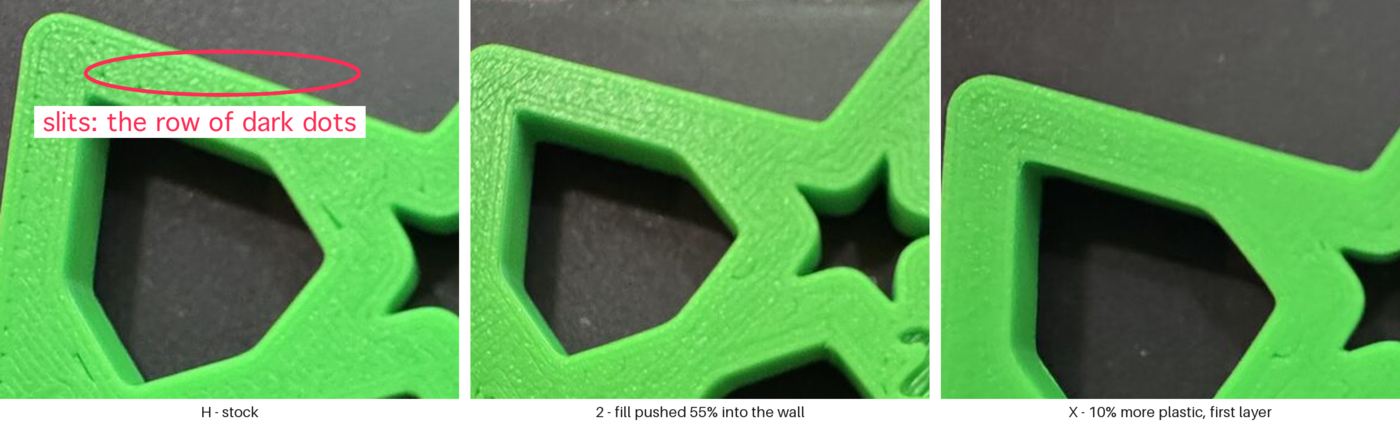
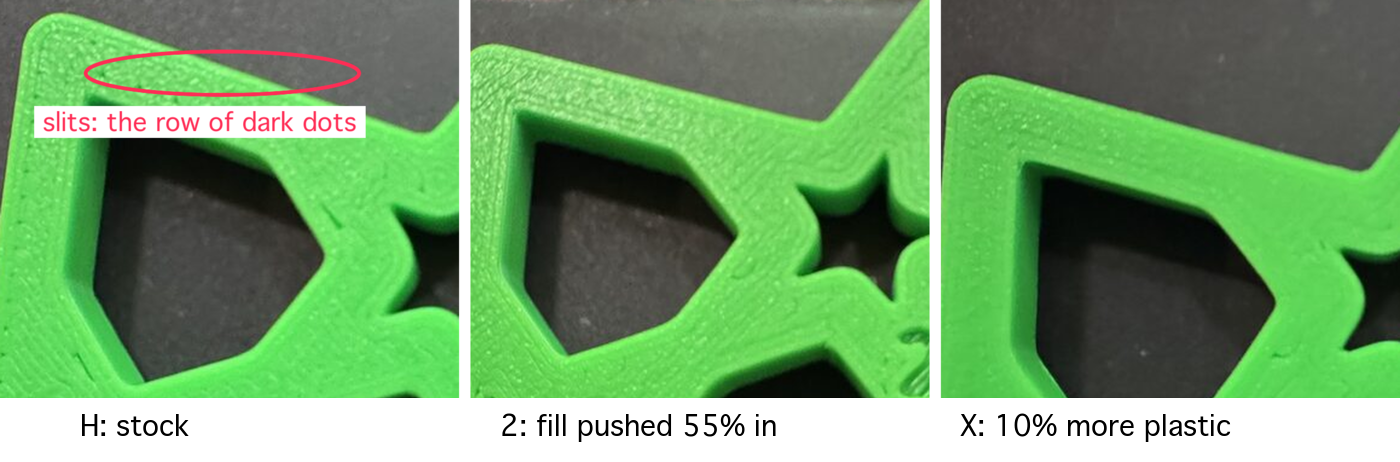
Bottom-slits page: one-line paragraphs and readable photo labels (#725)
Looked at in Obsidian, the page broke every caption and paragraph mid-sentence, because the vault
shows each line break in the source. Each paragraph, caption and bullet now sits on one line. The
labels under the bedface-4 photos were too small to read, so they are redrawn at twice the size.
The words are unchanged.

Claude-Session: https://claude.ai/code/session_01BsHUAhF5DsA3qgXDY11oZz

Changed region(s): [[0.0, 0.0307, 1.0, 1.0], [0.6757, 0.1533, 1.0, 0.4292], [0.6143, 0.0613, 0.645, 0.184]]

diff --git a/docs/working-model/feedback-requests/2026-10-13-bottom-slits-next.md b/docs/working-model/feedback-requests/2026-10-13-bottom-slits-next.md
@@ -4,14 +4,11 @@ date: 2026-10-13
 
 # The slits on the coaster's bottom: what to print next
 
-Two calls: tick one box under each. The next session writes your answers into the decisions log
-and builds the plate you pick. With no tick a call stays open, and nobody picks for you.
+Two calls: tick one box under each. The next session writes your answers into the decisions log and builds the plate you pick. With no tick a call stays open, and nobody picks for you.
 
 ![Three bedface-4 bottoms side by side: H on stock settings with a row of dark dots along the strap edge, circled; 2 with the fill pushed 55% into the wall; X with 10% more plastic on the first layer](2026-10-13-bottom-slits-next-media/bottoms.png)
 
-*Your photos of three bedface-4 pieces, cropped to the same corner. The slits are the row of dark
-dots along the strap edge on `H`, circled. To me (Claude), `2` and `X` both look smoother. You never
-set those two side by side.*
+*Your photos of three bedface-4 pieces, cropped to the same corner. The slits are the row of dark dots along the strap edge on `H`, circled. To me (Claude), `2` and `X` both look smoother. You never set those two side by side.*
 
 | # | Call | My pick | Why, in one line |
 |---|---|---|---|
@@ -24,31 +21,23 @@ set those two side by side.*
 - 10% more plastic on the first layer helped a little: "Y has less than J and X has less than Y". Every flow piece still slit.
 - The slicer's drawing is not the print. It showed 55% almost clean, and the pieces still slit.
 
-The research behind this page: [the combined plan](../../research/2026-10-13-bed-face-next-consolidated.md).
-The last print: [the bedface-4 record](../../prints/2026-10-13-bedface-4/index.md).
+The research behind this page: [the combined plan](../../research/2026-10-13-bed-face-next-consolidated.md). The last print: [the bedface-4 record](../../prints/2026-10-13-bedface-4/index.md).
 
 ## Call 1: what the next plate tests
 
-The next step is to push the fill further: 75% and 100%. Then add the 10% extra plastic on top of
-55% and 75%, to see whether the two together beat either alone.
+The next step is to push the fill further: 75% and 100%. Then add the 10% extra plastic on top of 55% and 75%, to see whether the two together beat either alone.
 
 ![The slicer's drawing of the first layer at one strap corner, four ways: stock with black notches along the inner wall, circled; 55% with few; 75% with almost none; 100% with the fill running over the inner wall, circled](2026-10-13-bottom-slits-next-media/overlap-closeup.png)
 
-*Drawn from the slicer's file, not a photo. Orange is the first layer's fill, pink the walls, black
-is bare plate. Stock leaves notches where the slits show. At 100% the fill runs over the inner
-wall, where a ridge could form. The drawing cannot show the extra plastic, and it showed 55% near
-clean when the print was not.*
+*Drawn from the slicer's file, not a photo. Orange is the first layer's fill, pink the walls, black is bare plate. Stock leaves notches where the slits show. At 100% the fill runs over the inner wall, where a ridge could form. The drawing cannot show the extra plastic, and it showed 55% near clean when the print was not.*
 
 ### 1. Six pairs at the normal height (my pick)
 
 ![The proposed bed from above: twelve pieces of the coaster, labeled stock A and B, overlap 55, 75 and 100 A and B, 55 flow A and B, 75 flow A and B](2026-10-13-bottom-slits-next-media/bed.png)
 
-*Drawn from a trial slice, without the carved ids yet. "Flow" means 10% more plastic on the first
-layer.*
+*Drawn from a trial slice, without the carved ids yet. "Flow" means 10% more plastic on the first layer.*
 
-Twelve pieces of the coaster, two of each: stock, 55%, 75%, 100%, 55% with flow, 75% with flow.
-Each is read against the stock pair on the same bed. About three hours and 52 g on the slicer's
-count; bedface-4 took 194 minutes against its 173.
+Twelve pieces of the coaster, two of each: stock, 55%, 75%, 100%, 55% with flow, 75% with flow. Each is read against the stock pair on the same bed. About three hours and 52 g on the slicer's count; bedface-4 took 194 minutes against its 173.
 
 ### 2. The same twelve, all printed 0.02 mm lower
 
@@ -56,10 +45,7 @@ count; bedface-4 took 194 minutes against its 173.
 
 *A drawing, not a measurement. The same plastic, pressed flatter, spreads each line about 11%.*
 
-The same bed, with the nozzle 0.02 mm closer to the plate for the first layer. It tests the height
-and the settings in one print. But the stock pair is lowered too, so the height can only be read
-against bedface-4's photos, across two prints. One research pass wanted one pair to try a setting
-the plate tool cannot set yet.
+The same bed, with the nozzle 0.02 mm closer to the plate for the first layer. It tests the height and the settings in one print. But the stock pair is lowered too, so the height can only be read against bedface-4's photos, across two prints. One research pass wanted one pair to try a setting the plate tool cannot set yet.
 
 ### 3. Stop: stay on stock
 
@@ -67,8 +53,7 @@ the plate tool cannot set yet.
 
 *`H`, stock: this is the bottom every coaster keeps if we stop.*
 
-No more test plates on this. 55% with 10% extra flow could still go on the next coaster without a
-test of the two together.
+No more test plates on this. 55% with 10% extra flow could still go on the next coaster without a test of the two together.
 
 | | Pros | Cons | What it leads to |
 |---|---|---|---|
@@ -87,13 +72,9 @@ test of the two together.
 
 ![A corner of bedface-4's piece 7 from below, with a small pink streak circled](2026-10-13-bottom-slits-next-media/pink-smear.jpg)
 
-*Piece `7` from bedface-4, printed in green. The pink is most likely left on the plate by the pink
-print before it.*
+*Piece `7` from bedface-4, printed in green. The pink is most likely left on the plate by the pink print before it.*
 
-The research suggests washing the glacier plate with dish soap and running bed leveling before every
-test plate. Only a weak source backs it, about parts not sticking, not about slits. It risks
-nothing, but a washed plate makes the new stock pair less like bedface-4's. Every read then stays
-within the one plate.
+The research suggests washing the glacier plate with dish soap and running bed leveling before every test plate. Only a weak source backs it, about parts not sticking, not about slits. It risks nothing, but a washed plate makes the new stock pair less like bedface-4's. Every read then stays within the one plate.
 
 | | Pros | Cons | What it leads to |
 |---|---|---|---|
@@ -108,8 +89,5 @@ within the one plate.
 
 ## Things only you can do (not decisions)
 
-- **Do `H` and `J` look alike?** Turn both over and hold them side by side under a lamp. `J` was
-  turned a quarter turn on the bed and `H` was not. If they differ, the turn matters, and each
-  piece on the next plate gets read against the stock piece turned its way.
-- **If you tick yes on call 2:** wash the glacier plate with dish soap, dry it, and run bed
-  leveling before the plate goes out.
+- **Do `H` and `J` look alike?** Turn both over and hold them side by side under a lamp. `J` was turned a quarter turn on the bed and `H` was not. If they differ, the turn matters, and each piece on the next plate gets read against the stock piece turned its way.
+- **If you tick yes on call 2:** wash the glacier plate with dish soap, dry it, and run bed leveling before the plate goes out.
